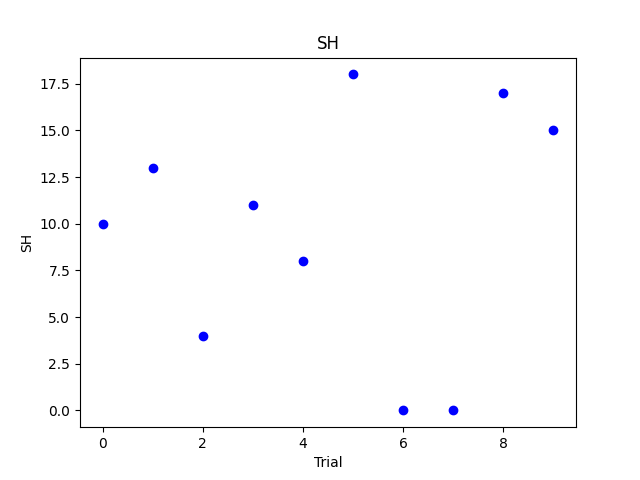
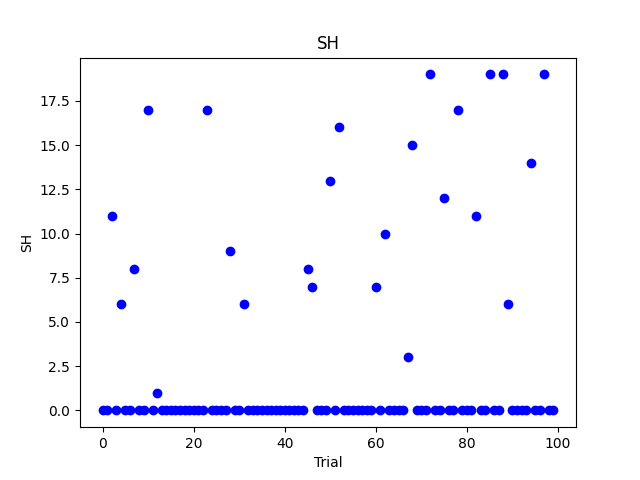
minor fixes to logging + add random item additions

diff --git a/dcss_examples/envs/inventory.py b/dcss_examples/envs/inventory.py
@@ -8,19 +8,18 @@ sys.path.append("dcss_examples/envs/")
 from item import Item
 """
 TODO:
-Sort inventory by AC/EV/etc... and figure out max AC etc.
-Actually get reward function going
--This includes doing the dodging and EV formulas
-
+Make random items appear every x steps of the simulation
+Update reward function to use dodge/evasion equations - current is okay though
 
 """
 class InventoryEnv(gym.Env):
     metadata = {"render_modes": ["human", "rgb_array", "None"], "render_fps": 4}
 
-    def __init__(self, render_mode=None, verbose_output = False, max_iterations = 100):
+    def __init__(self, render_mode=None, verbose_output = False, max_iterations = 100, replace_frame = 10):
         self.size = 341  # The size of our observation space - AC, EV, SH, ATTSP, ATT, STR, INT, DEX, SKILL:SH, SKILL:AC, SKILL: EV
         self.window_size = 512  # The size of the PyGame window
 
+        self.replace_frame = replace_frame # The timestep that an item is replaced on.
         self.verbose_output = verbose_output
         self.iteration = 0 #Which turn we're on
         self.max_iterations = max_iterations# End of episode
@@ -303,11 +302,11 @@ class InventoryEnv(gym.Env):
         #Randomize our stats for another go around
         self._randomize_stats()
         self._set_up_random_inventory()
-        with open('logs/inventory_check.txt','a') as f:
-            f.write("--------------------\n")
-            for i in range(52):
-                self.inventory[i].print_stats(f)
-            f.write("--------------------\n")
+        #with open('logs/inventory_check.txt','a') as f:
+            #f.write("--------------------\n")
+            #for i in range(52):
+            #    self.inventory[i].print_stats(f)
+            #f.write("--------------------\n")
         self.iteration = 0
         #Base observation should be all 0's
         observation = self._get_obs()
@@ -332,7 +331,6 @@ class InventoryEnv(gym.Env):
         else:
             #print("Equipping item")
             self._equip_item(self.inventory[action])
-
         self.iteration += 1
         terminated = (self.iteration >= self.max_iterations)
 
@@ -343,6 +341,24 @@ class InventoryEnv(gym.Env):
         if self.render_mode == "human":
             self._render_frame()
 
+        #If we're on a replace frame, choose a random item that is not equipped and randomize its stats
+        if self.iteration % self.replace_frame == 0:
+            item_index = random.choice(range(52))
+            #While we have an item that's currently equipped, keep looking
+            while self.inventory[item_index] in self.currently_equipped:
+                item_index = random.choice(range(52))
+            
+            #print("Switching index: ", item_index)
+            #print("Before: ")
+            
+            #self.inventory[item_index].print_stats(None)
+            self.inventory.remove(self.inventory[item_index])
+            
+            self.inventory.insert(item_index,Item("dummy", "dummy"))
+            self.inventory[item_index].generate_random_item()
+            
+            #print("After: ")
+            #self.inventory[item_index].print_stats(None)
         return observation, reward, terminated, False, info
 
     def render(self):

diff --git a/stable.py b/stable.py
@@ -9,14 +9,15 @@ sys.path.append("logs/")
 import process
 # Parallel environments
 iterations = 30
-vec_env = make_vec_env("dcss_examples/Inventory-v0", n_envs=1, env_kwargs={"render_mode": "None", "verbose_output": "False", "max_iterations":iterations})
+replace_frame = 5
+vec_env = make_vec_env("dcss_examples/Inventory-v0", n_envs=10, env_kwargs={"render_mode": "None", "verbose_output": "False", "max_iterations":iterations, "replace_frame":replace_frame})
 if os.path.isfile('logs/terminated_logs.txt'):
     os.remove('logs/terminated_logs.txt')
 if os.path.isfile('logs/inventory_check.txt'):
     os.remove('logs/inventory_check.txt')
 model = PPO("MultiInputPolicy", vec_env, verbose=1, device="cpu")
 model.load("dcss_inventory_bot")
-model.learn(total_timesteps=90)
+model.learn(total_timesteps=2048000)
 
 
 obs = vec_env.reset()

diff --git a/dcss_examples/envs/item.py b/dcss_examples/envs/item.py
@@ -42,4 +42,5 @@ class Item():
             self.ENC = random.choice(range(20))
     
     def print_stats(self, f):
-        print("Name: ", self.name, "\nType: ", self.item_type, "\nAC: ", self.AC, "\nSH: ", self.SH, "\nATT: ", self.ATT, "\nATTSP: ", self.ATTSP, "\nENC: ", self.ENC, file=f)
+        print("Name: ", self.name, "\nType: ", self.item_type, "\nAC: ", self.AC, "\nEV: ", self.EV, "\nSH: ", self.SH, "\nATT: ", self.ATT, "\nATTSP: ", self.ATTSP, "\nENC: ", self.ENC, file=f)
+        
